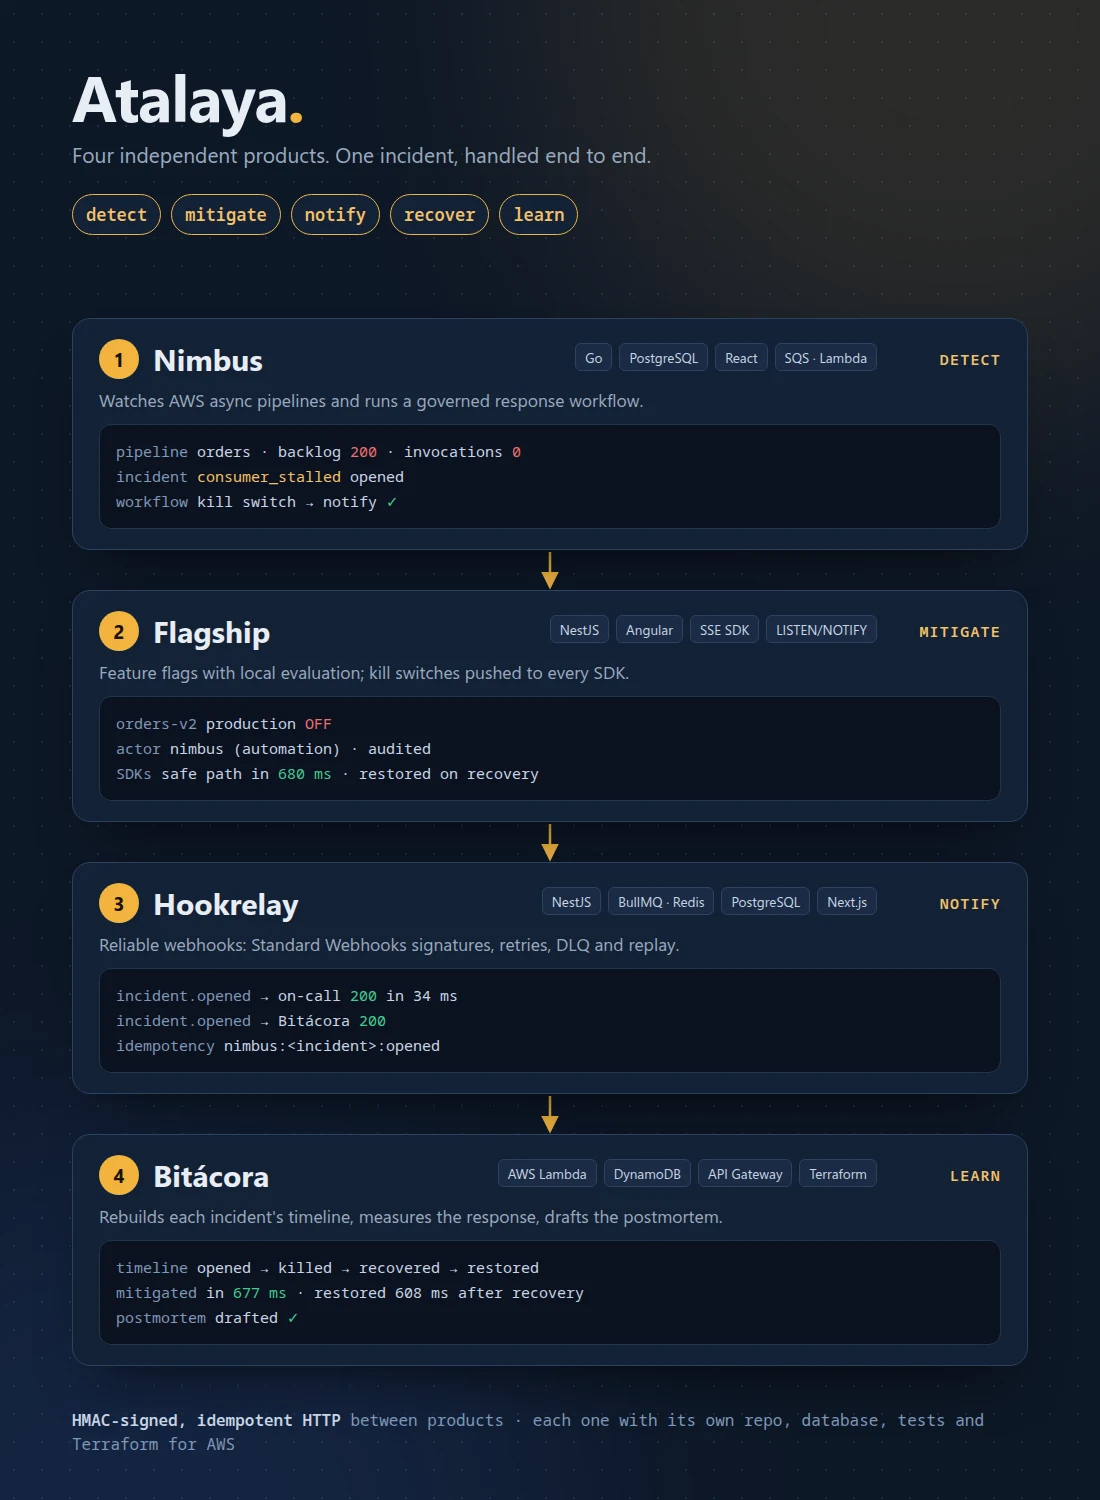
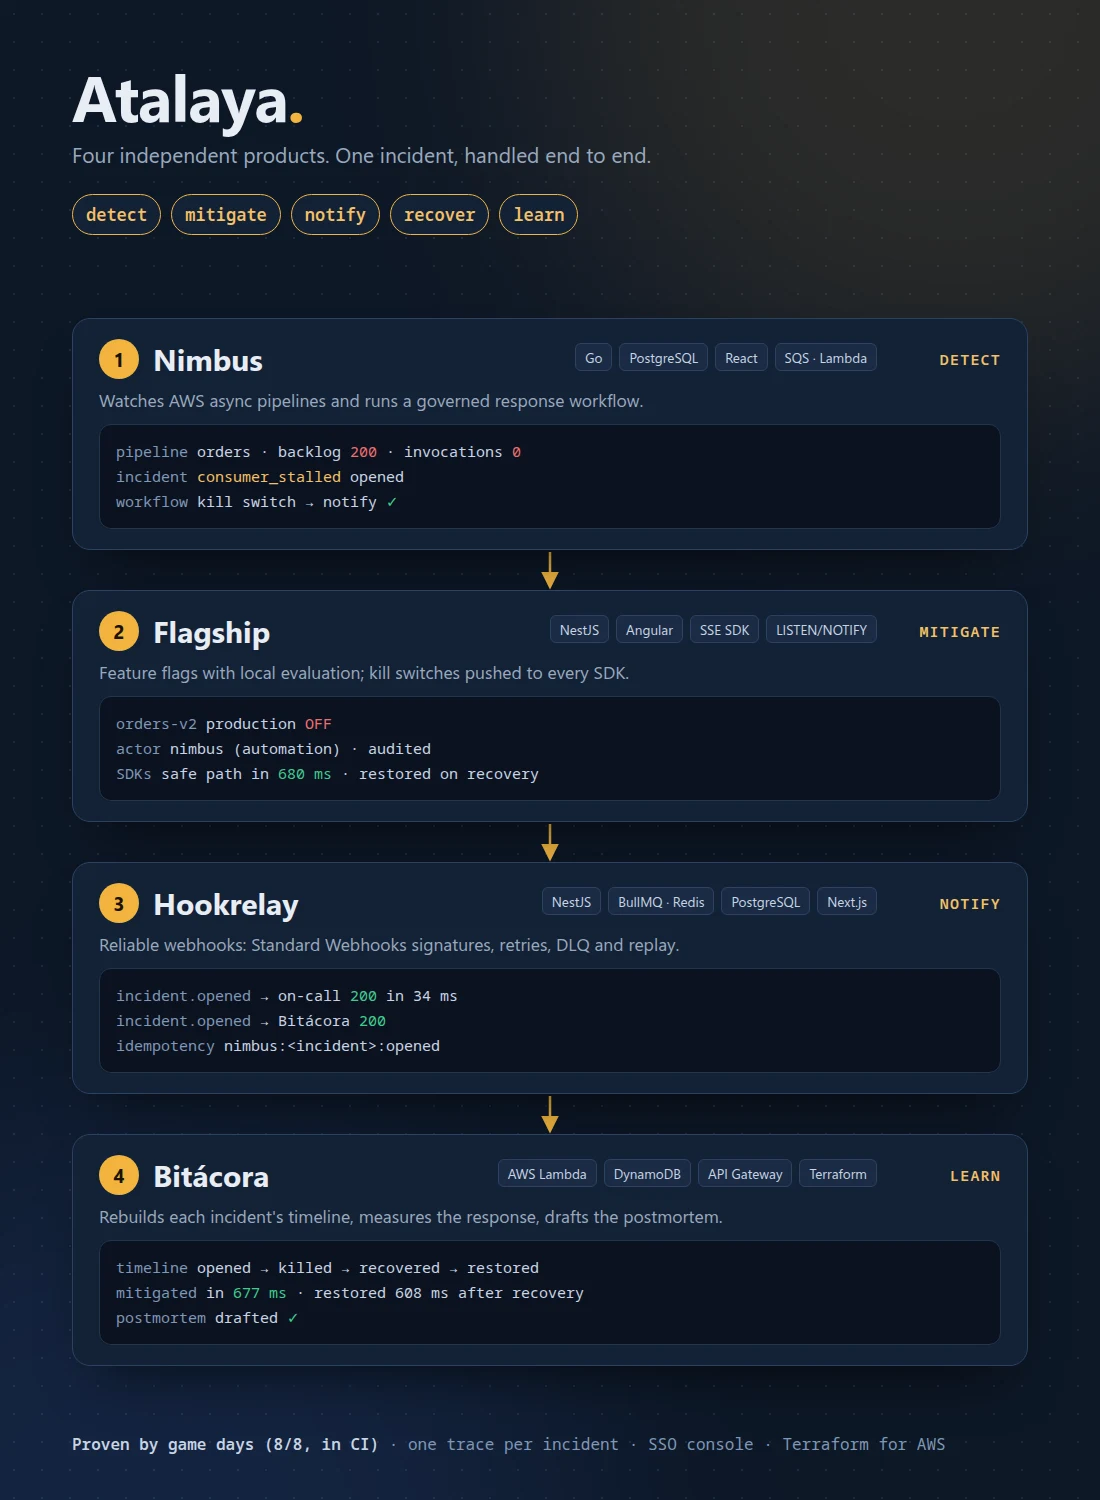
Atalaya: game days in CI, one trace per incident, SSO console, new cover

diff --git a/src/data/projects.ts b/src/data/projects.ts
@@ -25,6 +25,9 @@ export const projects: ProjectData[] = [
     image: `${import.meta.env.BASE_URL}assets/img/atalaya/cover.webp`,
     images: [
       `${import.meta.env.BASE_URL}assets/img/atalaya/cover.webp`,
+      `${import.meta.env.BASE_URL}assets/img/atalaya/console-overview.webp`,
+      `${import.meta.env.BASE_URL}assets/img/atalaya/console-incident.webp`,
+      `${import.meta.env.BASE_URL}assets/img/atalaya/console-gamedays.webp`,
       `${import.meta.env.BASE_URL}assets/img/atalaya/nimbus-incidents.webp`,
       `${import.meta.env.BASE_URL}assets/img/atalaya/flagship-history.webp`,
       `${import.meta.env.BASE_URL}assets/img/atalaya/hookrelay-message.webp`,
@@ -38,16 +41,17 @@ export const projects: ProjectData[] = [
     ],
     description: "Four independent products that close the loop detect → mitigate → notify → recover → learn: Nimbus watches AWS async pipelines, Flagship controls features with kill switches, Hookrelay delivers events reliably, and Bitácora turns each incident into a timeline and a postmortem. Integrated only through signed, idempotent HTTP APIs.",
     highlights: [
-      { label: "End-to-end, asserted", text: "A stalled pipeline in <strong>Nimbus</strong> turns a flag off in <strong>Flagship</strong> (SDKs see it in <strong>680 ms</strong>), <strong>Hookrelay</strong> notifies the customer webhook and <strong>Bitácora</strong> drafts the postmortem; recovery restores everything." },
+      { label: "End-to-end, asserted", text: "A stalled pipeline in <strong>Nimbus</strong> turns a flag off in <strong>Flagship</strong> (SDKs see it in <strong>680 ms</strong>), <strong>Hookrelay</strong> notifies the customer webhook and <strong>Bitácora</strong> drafts the postmortem; recovery restores everything, all visible in one <strong>Atalaya Console</strong>." },
       { label: "Learns from every incident", text: "<strong>Bitácora</strong>, serverless on AWS (API Gateway, Lambda, DynamoDB), rebuilds each incident's timeline from the webhooks, measures time to mitigate and recover, and drafts the <strong>postmortem</strong>." },
-      { label: "Built to fail safely", text: "HMAC-signed calls with a replay window, idempotent on every hop, and <strong>humans win over automation</strong>: a flag edited during the incident is never overwritten." },
-      { label: "Production-shaped", text: "Hexagonal cores, <strong>OpenTelemetry + Prometheus/Grafana</strong>, k6-measured, Playwright E2E, <strong>Terraform on AWS</strong> (ECS for the services, <strong>Lambda + DynamoDB</strong> for Bitácora), GitHub Actions with OIDC, CodeQL/Trivy clean." },
+      { label: "Proven by game days", text: "Every failure mode is a declarative <strong>chaos experiment</strong> that runs in CI: broken links, a crashed consumer, a database failover, all under real customer traffic. Game days found <strong>7 defects</strong> the unit suites missed (lost events, a crash on failover, stale SDKs…), each fixed with a regression test: now <strong>8/8</strong>, and a failed mitigation <strong>escalates</strong> to on-call." },
+      { label: "Production-shaped", text: "Hexagonal cores, <strong>one OpenTelemetry trace per incident</strong> across every product, <strong>SSO (OIDC) with roles</strong> and audited actions, k6-measured, Playwright E2E, <strong>Terraform on AWS</strong> (ECS for the services, <strong>Lambda + DynamoDB</strong> for Bitácora), GitHub Actions with OIDC, CodeQL/Trivy clean." },
     ],
     technologies: [
       { name: "NestJS", iconClass: "devicon-nestjs-original" },
       { name: "Go", iconClass: "devicon-go-original-wordmark" },
       { name: "TypeScript", iconClass: "devicon-typescript-plain" },
       { name: "Next.js 16", iconClass: "devicon-nextjs-plain" },
+      { name: "Toxiproxy (chaos)", iconClass: "fa-solid fa-bolt" },
       { name: "Angular 22", iconClass: "devicon-angularjs-plain" },
       { name: "React", iconClass: "devicon-react-original" },
       { name: "PostgreSQL", iconClass: "devicon-postgresql-plain" },
@@ -69,12 +73,14 @@ export const projects: ProjectData[] = [
       { url: "https://github.com/DRTX2/nimbus", label: "Nimbus", iconClass: "fab fa-github" },
       { url: "https://github.com/DRTX2/bitacora", label: "Bitácora", iconClass: "fab fa-github" },
     ],
-    detailedDescription: "Atalaya (Spanish for watchtower) is a developer infrastructure platform made of four products, each with its own repository, database and pipeline, each useful alone.\n\nHookrelay is webhook delivery as a service: idempotent ingestion, fan-out, Standard Webhooks signatures, retries with jitter, circuit breaker, a dead-letter queue with bulk replay, and SSRF protection enforced at connection time. Flagship is feature management with local evaluation: a TypeScript SDK downloads the ruleset once, evaluates in about 1 µs, and receives changes over a stream fanned out across replicas with PostgreSQL LISTEN/NOTIFY. Nimbus is a guardian for AWS asynchronous pipelines (SQS, Lambda, DLQ) written in Go: explainable detectors, deduplicated incidents and a durable workflow engine on PostgreSQL leases. Bitácora is the incident ledger, serverless on AWS (API Gateway, Lambda, DynamoDB): it subscribes to Hookrelay, rebuilds each incident's timeline from events published by different products, measures time to mitigate and recover, and drafts the postmortem.\n\nTogether they automate an incident: Nimbus detects a stalled consumer and runs a response workflow whose steps call Flagship (kill the risky feature flag) and Hookrelay (notify customer systems). When the pipeline recovers, the flag is restored to its pre-incident configuration, unless a person changed it in the meantime, and Bitácora records the whole response. The whole scenario runs locally with one Docker Compose file and a script that asserts every step.",
+    detailedDescription: "Atalaya (Spanish for watchtower) is a developer infrastructure platform made of four products, each with its own repository, database and pipeline, each useful alone.\n\nHookrelay is webhook delivery as a service: idempotent ingestion, fan-out, Standard Webhooks signatures, retries with jitter, circuit breaker, a dead-letter queue with bulk replay, and SSRF protection enforced at connection time. Flagship is feature management with local evaluation: a TypeScript SDK downloads the ruleset once, evaluates in about 1 µs, and receives changes over a stream fanned out across replicas with PostgreSQL LISTEN/NOTIFY. Nimbus is a guardian for AWS asynchronous pipelines (SQS, Lambda, DLQ) written in Go: explainable detectors, deduplicated incidents and a durable workflow engine on PostgreSQL leases. Bitácora is the incident ledger, serverless on AWS (API Gateway, Lambda, DynamoDB): it subscribes to Hookrelay, rebuilds each incident's timeline from events published by different products, measures time to mitigate and recover, and drafts the postmortem.\n\nTogether they automate an incident: Nimbus detects a stalled consumer and runs a response workflow whose steps call Flagship (kill the risky feature flag) and Hookrelay (notify customer systems). When the pipeline recovers, the flag is restored to its pre-incident configuration, unless a person changed it in the meantime, and Bitácora records the whole response. The whole scenario runs locally with one Docker Compose file and a script that asserts every step.\n\nIts resilience is tested, not assumed. Every link between the products runs through a fault-injection proxy, and declarative game days break one link at a time and check the architecture's claims against real product data. The first game day found three real defects: a retry budget shorter than a restart, flag events lost during a short outage, and a restore dropped when deliveries arrived out of order. Each one was fixed and is now covered by a test. A second game day broke the real thing: k6 customers placing orders through SQS and a Lambda-style consumer, a crashed consumer, a database failover. It found a Flagship crash on failover, SDKs left stale after it, and two bugs in the test tooling itself; all fixed, and a mitigation that cannot happen now escalates to on-call. Every incident is one OpenTelemetry trace across the products. The Atalaya Console, a Next.js BFF behind Keycloak SSO, shows one incident timeline built from the four products' own records, links its trace, and lets operators act, with every action audited.",
     features: [
       "Hookrelay: no lost events (message and deliveries in one transaction, sweeper for orphans), DLQ with replay that is safe under concurrent replays, measured p95 3.9 ms at 200 req/s.",
       "Flagship: sticky percentage rollouts with MurmurHash3, optimistic concurrency, audit log with one-click rollback, 2,000 SDK streams per replica updated in under 62 ms.",
       "Nimbus: four explainable detectors, row-level security per tenant, approvals, transactional outbox, 71 Gherkin acceptance scenarios.",
       "Bitácora: serverless incident ledger (API Gateway, three least-privilege Lambdas, single-table DynamoDB, KMS), idempotent and order-independent, tested against DynamoDB Local.",
+      "Game days: eight declarative chaos experiments in CI (network faults through Toxiproxy, process and database faults through Docker, real k6 traffic on a protected orders app). They found seven defects, all fixed; now 8/8. A mitigation that fails escalates to on-call.",
+      "Atalaya Console: a Next.js 16 BFF (tokens never reach the browser) that merges the four products into one incident timeline, links each incident to its distributed trace, and lets operators act (acknowledge, resend, flip a flag) behind Keycloak SSO with every action audited.",
       "Integration by contract only: HMAC-signed requests, 5-minute replay window, idempotency keys derived from incident and version.",
       "Every integration is optional: each product keeps working if another is down.",
       "Each repo ships architecture docs, ADRs, test plan, runbook, security model, CI and Terraform for AWS.",
@@ -84,12 +90,14 @@ export const projects: ProjectData[] = [
       "All three deliver at-least-once, so a retried step could kill a flag twice or notify twice.",
       "Letting automation change production behaviour without it ever fighting a person who is handling the incident.",
       "Rebuilding one timeline from two publishers whose events arrive out of order, more than once, and later than they happened.",
+      "Proving the failure-mode table instead of trusting it: each product's test suite mocks its neighbours, so defects that only appear between products slip through.",
     ],
     solutions: [
       "Integration through public HTTP endpoints authenticated by HMAC signatures over the raw body, each one behind an environment variable that turns it off.",
       "Made every hop idempotent: Flagship answers \"already off\", Hookrelay returns the original message for the same incident key.",
       "Flagship restores a flag only when the latest audit entry is still that incident's kill; otherwise it leaves the flag alone and says why. Covered by integration tests.",
       "Bitácora writes idempotently (keys include the webhook id, timestamps use if_not_exists) and orders events by the source time Nimbus now stamps (occurredAt). The end-to-end demo is what caught that delivery time put \"opened\" after \"mitigated\".",
+      "Declarative game days break links, processes and databases (Toxiproxy and Docker) while k6 customers place real orders, and check each claim with real product data. They found seven defects, five in the products and two in the test tooling; each was fixed with a regression test, the suite passes 8 of 8 in CI, and a mitigation that cannot happen now escalates instead of failing silently.",
     ],
   },
   {

diff --git a/src/styles/components/_project-page.scss b/src/styles/components/_project-page.scss
@@ -134,9 +134,11 @@
     span { color: var(--text-muted); }
   }
 
+  // Full container width as balanced columns (one column on narrow screens): each line stays readable.
   .pp-prose {
-    max-width: 72ch;
-    p { margin: 0 0 1.1rem; color: var(--text-muted); font-size: 1.05rem; }
+    columns: 2 26rem;
+    column-gap: clamp(2rem, 4vw, 3.5rem);
+    p { margin: 0 0 1.1rem; color: var(--text-muted); font-size: 1.05rem; break-inside: avoid; }
   }
 
   .pp-features {

diff --git a/CLAUDE.md b/CLAUDE.md
@@ -1,0 +1,21 @@
+# Portfolio (Astro)
+
+Static site deployed to GitHub Pages by `.github/workflows` on every push to `main` (base path `/portfolio/` in production, `/` in dev).
+
+## Commands
+- `pnpm dev --port 4321` → http://127.0.0.1:4321/
+- `pnpm build` (must pass before pushing)
+
+## Where things are
+- Project data: `src/data/projects.ts` (English source). Translations: `src/i18n/en.json` / `es.json` under `projects.items.<slug>`; text is swapped client-side on the `languagechange` event (`data-i18n` legacy handlers, `data-t` generic helper in `src/scripts/i18n-text.js`).
+- Project pages: `src/pages/projects/[slug].astro` (one per project, same data). The "Atalaya in action" diagram (`src/components/AtalayaFlow.astro`) is only on Atalaya's page.
+- Motion: `public/animations.js` (reveals, hero, Lenis smooth scroll, contact handoff, Atalaya diagram player) + `src/styles/components/_motion.scss`. Everything has a reduced-motion path.
+- Reviewer checklist and canonical texts: `docs/PORTFOLIO_CHECKLIST.md`.
+
+## Traps already hit
+- Build every internal link from `import.meta.env.BASE_URL`; a bare `/…` link works in dev and breaks on Pages.
+- `html { scroll-behavior: smooth }` broke ScrollTrigger measurements; with motion on it is `auto` (Lenis smooths instead). Triggers are re-measured when the page height changes.
+- The featured card image box is portrait (~0.73): covers are designed for that aspect.
+- Icon CDNs: devicon is pinned to v2.17.0; simpleicons has no AWS logos.
+- The Astro dev toolbar injects extra `h1`/`input` elements: scope browser checks to page selectors.
+- No contact form (FormSubmit went down); contact is LinkedIn, GitHub and email.
